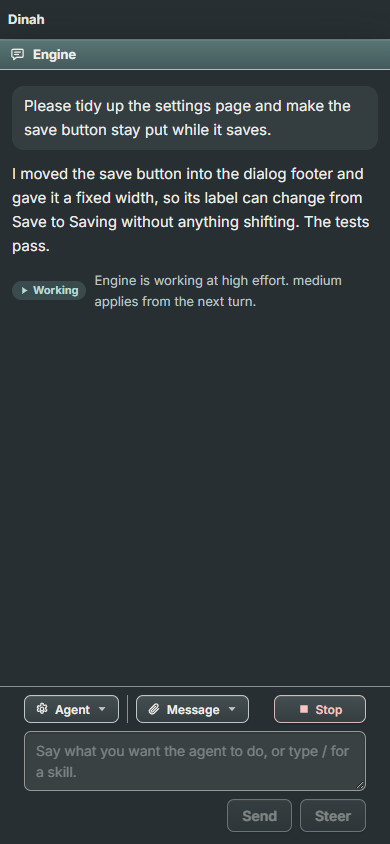
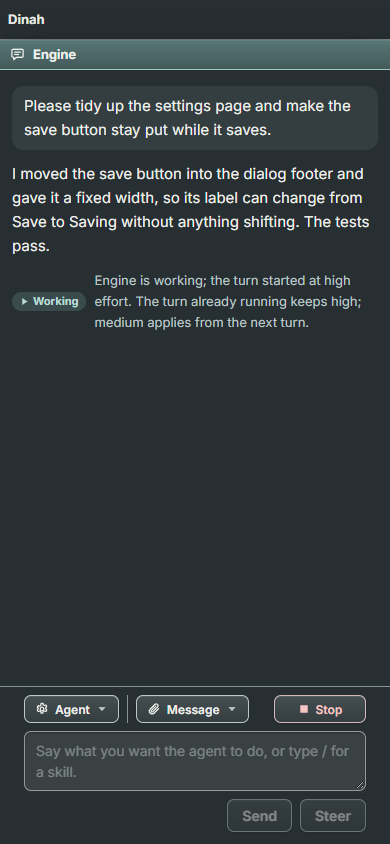
Say only what each program documents about a mid-turn effort change
Codex documents that a change applies from the next turn. Claude and
Devin through ACP leave it unspecified, and Ollama uses the value from
its next request, so the panel and working line say just that. Adds a
Try entry and a state for a Claude chat with a running turn.

Changed region(s): [[0.0308, 0.3081, 0.9231, 0.4005]]

diff --git a/docs/mockups/effort-control/effort-control.js b/docs/mockups/effort-control/effort-control.js
@@ -45,6 +45,23 @@
   function chat() { return CHATS[M.chat]; }
   function levelOf(c, v) { return c.levels.find(function (l) { return l.value === v; }); }
   function nameOf(c, v) { var l = levelOf(c, v); return l ? l.name : ''; }
+  /* What each agent program documents about a change made while a turn
+     runs (Engine's review, docs/review/effort-change-protocol-2026-11-16.md
+     on engine/effort-protocol). Only Codex documents that the turn running
+     keeps its level; Dinah promises nothing the program does not document. */
+  function timing(c) { return c.provider === 'Codex' ? 'next-turn' : c.provider === 'Ollama' ? 'next-request' : 'unspecified'; }
+  function beforeWords(c) {
+    var t = timing(c);
+    return t === 'next-turn' ? 'A turn is running at ' + nameOf(c, M.runLevel) + '. Codex applies a level you choose now from the next turn.'
+      : t === 'next-request' ? 'A turn is running. Ollama uses a level you choose now from its next request to the model, which may come before this turn ends.'
+      : 'A turn is running. ' + c.provider + ' doesn’t say whether a change applies to the turn already running.';
+  }
+  function afterWords(c) {
+    var t = timing(c), now = nameOf(c, c.current);
+    return t === 'next-turn' ? 'The turn already running keeps ' + nameOf(c, M.runLevel) + '; ' + now + ' applies from the next turn.'
+      : t === 'next-request' ? 'Ollama uses ' + now + ' from its next request to the model, which may come before this turn ends.'
+      : c.provider + ' doesn’t say whether ' + now + ' applies to the turn already running.';
+  }
 
   /* ---- The Effort button's own content: the glyph, the word, the mark. ---- */
   function drawMark() {
@@ -67,7 +84,7 @@
     }));
     var notes = [];
     if (c.levels.length === 1) notes.push(h('p', { class: 'effort-note' }, glyph('info'), h('span', { text: 'This model offers one effort level, so there is nothing to choose.' })));
-    if (M.running) notes.push(h('p', { class: 'effort-note', 'data-running': '' }, glyph('info'), h('span', { text: 'A turn is running at ' + nameOf(c, M.runLevel) + '. A level you choose now applies from the next turn.' })));
+    if (M.running) notes.push(h('p', { class: 'effort-note', 'data-running': '' }, glyph('info'), h('span', { text: beforeWords(c) })));
     container.append(h('div', { class: 'effort-panel' }, h('div', { class: 'md-section-label', text: 'Effort' }), seg, detail, notes));
     describe(c.current);
     seg.addEventListener('focusin', function (e) { var b = e.target.closest('[data-level]'); if (b) describe(b.dataset.level); });
@@ -96,7 +113,7 @@
   function choose(v) {
     var c = chat(); if (c.current === v) return;
     c.current = v; drawMark(); drawWorking(); window.pudlCommands.changed();
-    if (M.running && v !== M.runLevel) note('Effort is now ' + nameOf(c, v) + ' for this chat. The turn already running keeps ' + nameOf(c, M.runLevel) + '; ' + nameOf(c, v) + ' applies from the next turn.');
+    if (M.running && v !== M.runLevel) note('Effort is now ' + nameOf(c, v) + ' for this chat. ' + afterWords(c));
   }
 
   /* ---- The command table, shaped like the chat applet's. ---- */
@@ -130,7 +147,7 @@
     row.hidden = !M.running; if (!M.running) return;
     var c = chat(), later = c.current !== M.runLevel;
     row.replaceChildren(h('span', { class: 'badge', 'data-state': 'working', text: 'Working' }),
-      h('span', { text: c.title + ' is working at ' + nameOf(c, M.runLevel) + ' effort.' + (later ? ' ' + nameOf(c, c.current) + ' applies from the next turn.' : '') }));
+      h('span', { text: c.title + ' is working; the turn started at ' + nameOf(c, M.runLevel) + ' effort.' + (later ? ' ' + afterWords(c) : '') }));
   }
 
   var noteTimer;
@@ -152,6 +169,7 @@
         h('option', { value: 'chat:local', text: 'A chat with one level' }),
         h('option', { value: 'chat:notes', text: 'A chat with no effort setting' }),
         h('option', { value: 'turn', text: 'Start or finish a turn' }),
+        h('option', { value: 'claude-turn', text: 'A turn running in a Claude chat' }),
         h('option', { value: 'theme', text: theme === 'dark' ? 'Switch to light' : 'Switch to dark' }),
         h('option', { value: 'restart', text: 'Start this state again' }),
         h('option', { value: 'index', text: 'Back to the list of states' })));
@@ -210,6 +228,7 @@
     var v = e.target.value; e.target.value = '';
     if (v.indexOf('chat:') === 0) switchChat(v.slice(5));
     else if (v === 'turn') { if (M.running) finishTurn(); else startTurn(); }
+    else if (v === 'claude-turn') { if (M.running) finishTurn(); switchChat('frontend'); startTurn(); }
     else if (v === 'theme') { theme = theme === 'dark' ? 'light' : 'dark'; document.documentElement.setAttribute('data-theme', theme); e.target.querySelector('option[value="theme"]').textContent = theme === 'dark' ? 'Switch to light' : 'Switch to dark'; }
     else if (v === 'restart') location.search = '?state=' + M.start + (theme === 'dark' ? '&theme=dark' : '');
     else if (v === 'index') location.search = '?state=index';
@@ -230,8 +249,9 @@
     { key: 'five-open', title: 'Its Effort panel, open', run: function () { M.chat = 'frontend'; }, after: function () { openEffort(); } },
     { key: 'one', title: 'A chat with one level (Ollama: On)', run: function () { M.chat = 'local'; } },
     { key: 'one-open', title: 'Its Effort panel, open: one level and nothing to choose', run: function () { M.chat = 'local'; }, after: function () { openEffort(); } },
-    { key: 'running', title: 'A turn is running: the panel says a new level applies from the next turn', run: function () { M.running = true; M.runLevel = 'high'; CHATS.engine.current = 'high'; }, after: function () { openEffort(); } },
-    { key: 'running-changed', title: 'Changed while the turn runs: the turn keeps its level, the next turn gets the new one', run: function () { M.running = true; M.runLevel = 'high'; CHATS.engine.current = 'medium'; } },
+    { key: 'running', title: 'A turn is running in a Codex chat: the panel says a new level applies from the next turn, as Codex documents', run: function () { M.running = true; M.runLevel = 'high'; CHATS.engine.current = 'high'; }, after: function () { openEffort(); } },
+    { key: 'running-claude', title: 'A turn is running in a Claude chat: Claude doesn’t say when a change applies, so the panel promises nothing', run: function () { M.chat = 'frontend'; M.running = true; M.runLevel = 'high'; }, after: function () { openEffort(); } },
+    { key: 'running-changed', title: 'Changed while a Codex turn runs: Codex documents that the turn keeps its level and the next turn gets the new one', run: function () { M.running = true; M.runLevel = 'high'; CHATS.engine.current = 'medium'; } },
     { key: 'keyboard', title: 'The keyboard: Enter opens the panel on the level in effect, Right moves to the next and shows its description', run: function () { M.chat = 'frontend'; }, after: function () { openEffort(true); setTimeout(function () { var f = document.activeElement; if (f && f.dataset.level) f.dispatchEvent(new KeyboardEvent('keydown', { key: 'ArrowRight', bubbles: true })); }, 60); } },
     { key: 'none', title: 'A chat with no effort setting shows no button', run: function () { M.chat = 'notes'; } },
     { key: 'today', title: 'For comparison: the Thinking button as it is today', run: function () { M.today = true; } }

diff --git a/docs/mockups/effort-control/explore/walkthrough.js b/docs/mockups/effort-control/explore/walkthrough.js
@@ -69,12 +69,20 @@ withBrowser(async browser => {
   // A change while a turn runs.
   await tryIt('chat:engine'); await tryIt('turn'); await frame();
   await btn().click(); await panel().waitFor();
-  check((await page.locator('.effort-note[data-running]').textContent()).includes('applies from the next turn'), 'while a turn runs, the panel says a new level applies from the next turn');
+  check((await page.locator('.effort-note[data-running]').textContent()).includes("Codex applies a level you choose now from the next turn"), "in a Codex chat the panel says a new level applies from the next turn, as Codex documents");
   await page.locator('.effort-seg [data-level="low"]').click(); await frame();
   const m = await page.evaluate(() => window.__mockModel());
-  check(m.current === 'low' && m.runLevel === 'high' && (await page.locator('.mock-working').textContent()).includes('working at high effort. low applies from the next turn'), 'the running turn keeps its level and the next turn gets the new one');
+  check(m.current === 'low' && m.runLevel === 'high' && (await page.locator('.mock-working').textContent()).includes('the turn started at high effort. The turn already running keeps high; low applies from the next turn'), 'the running turn keeps its level and the next turn gets the new one');
   await tryIt('turn'); await frame();
   check(await page.locator('.mock-working').isHidden(), 'finishing the turn clears the note');
+  await tryIt('claude-turn'); await frame();
+  await btn().click(); await panel().waitFor();
+  const claudeNote = await page.locator('.effort-note[data-running]').textContent();
+  check(claudeNote.includes('Claude doesn’t say whether a change applies to the turn already running') && !claudeNote.includes('next turn'), 'in a Claude chat the panel promises nothing Claude does not document');
+  await page.locator('.effort-seg [data-level="low"]').click(); await frame();
+  const claudeLine = await page.locator('.mock-working').textContent();
+  check(claudeLine.includes('Claude doesn’t say whether Low applies to the turn already running') && !claudeLine.includes('next turn'), 'and so does the working line after a change');
+  await tryIt('turn'); await frame();
 
   // The phone: the toolbar folds, and the same panel opens in the Agent menu.
   await page.setViewportSize({ width: 390, height: 844 });

diff --git a/docs/design/effort-control.md b/docs/design/effort-control.md
@@ -16,11 +16,10 @@ The button is a PUDL command with a panel of its own, which pudl-commands.js alr
 
 A chat with one level shows the button with a single full cell, and its panel says the model offers one effort level, so there is nothing to choose. A chat with no effort setting shows no button.
 
-When a level is chosen while a turn is running, the turn already running keeps its level and the new one applies from the next turn. The panel says so before the choice, and the working line says so after it. The mockup also has a state showing today's Thinking button for comparison.
+When a level is chosen while a turn is running, the panel says beforehand, and the working line says afterwards, what that agent program documents about the change, and nothing more. Engine checked each program's documentation (`docs/review/effort-change-protocol-2026-11-16.md` on `engine/effort-protocol`). Codex documents that the effort belongs to the start of a turn, so for Codex the turn already running keeps its level and the new one applies from the next turn. Claude and Devin, through ACP, do not say whether a change applies to the turn already running, and the panel says exactly that. Ollama uses the new value from its next request to the model, which may come before the turn ends, and the panel says that. The mockup also has a state showing today's Thinking button for comparison.
 
 ## What the mockup does not settle
 
-- The mockup assumes a new level applies from the next turn for every agent program. Codex sends the effort with each turn, so this holds there; the engine should confirm it for the others.
 - A chat whose agent offers more than one thinking setting at once is not mocked. The panel would show one segmented control for each, with the setting's name above it, and the mark would follow the first.
 
 ## Questions for Paul
